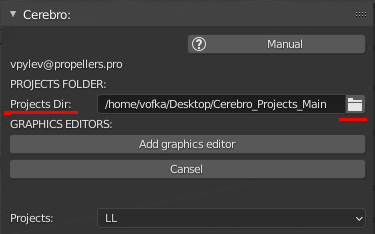
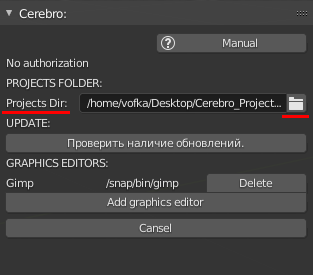
update

diff --git a/docs/source/manual/settings.rst b/docs/source/manual/settings.rst
@@ -24,12 +24,22 @@
 .. note:: Можно иметь любое количество таких директорий для разных проектов и текущих состояний, и переключаться между ними.
 
 
+Обновление
+-----------
+
+.. image:: ../_static/images/settings_update_addon.png
+
+* :guilabel:`Проверить наличие обновлений` - запустит проверку наличия обновлений. Подробнее в :ref:`update-page`
+
+
+
+
 Выбор графических редакторов
 ----------------------------
 
 .. image:: ../_static/images/graphics_editor_setting.png
 
-Добавление графических редакторов в список, для дальнейшего использования их при редактировании текстур :ref:`work_panel_edit_textures`.
+:guilabel:`Add graphics editor` - Добавление графических редакторов в список, для дальнейшего использования их при редактировании текстур :ref:`work_panel_edit_textures`.
 
 Для того чтобы добавить графический редактор надо выбрать его экзешник в проводнике и указать имя под которым он будет отображаться в списке: поле ``Name`` (если не указывать имя, оно будет создано по названию экзешника с заглавной буквы).
 

diff --git a/docs/source/manual/update.rst b/docs/source/manual/update.rst
@@ -1,0 +1,23 @@
+.. _update-page:
+
+Обновление 
+=============
+
+Проверка наличия обновлений
+---------------------------
+
+* Проверка наличия обновлений делается автоматически каждый раз после аутентификации.
+
+* Проверку наличия обновлений можно запустить принудительно в панеле :ref:`manual-settings-page`
+
+	.. image:: ../_static/images/settings_update_addon.png
+
+
+Запуск установки обновления
+---------------------------
+
+* Если проверка выявит наличие нового релиза, то возникает панель для запуска установки обновления.
+
+	.. image:: ../_static/images/update_panel.png
+
+* После установки, для применения изменений блендер надо перезапустить.

diff --git a/docs/source/index.rst b/docs/source/index.rst
@@ -5,7 +5,7 @@ Manual
 
 `Общий обзор (видео) <https://youtu.be/R-c-LF7VbWM>`_
 
-`Установка обновление <https://www.notion.so/propls/Blender-Cerebro-b2e5fad019974df4ad8f2ffc590c9303>`_
+`Установка и обновление по последней версии git <https://www.notion.so/propls/Blender-Cerebro-b2e5fad019974df4ad8f2ffc590c9303>`_
 
 Содержание:
 
@@ -14,6 +14,7 @@ Manual
 
    manual/authentication
    manual/settings
+   manual/update
    manual/tasks_list
    manual/selected_panel_work
    manual/selected_panel_check
